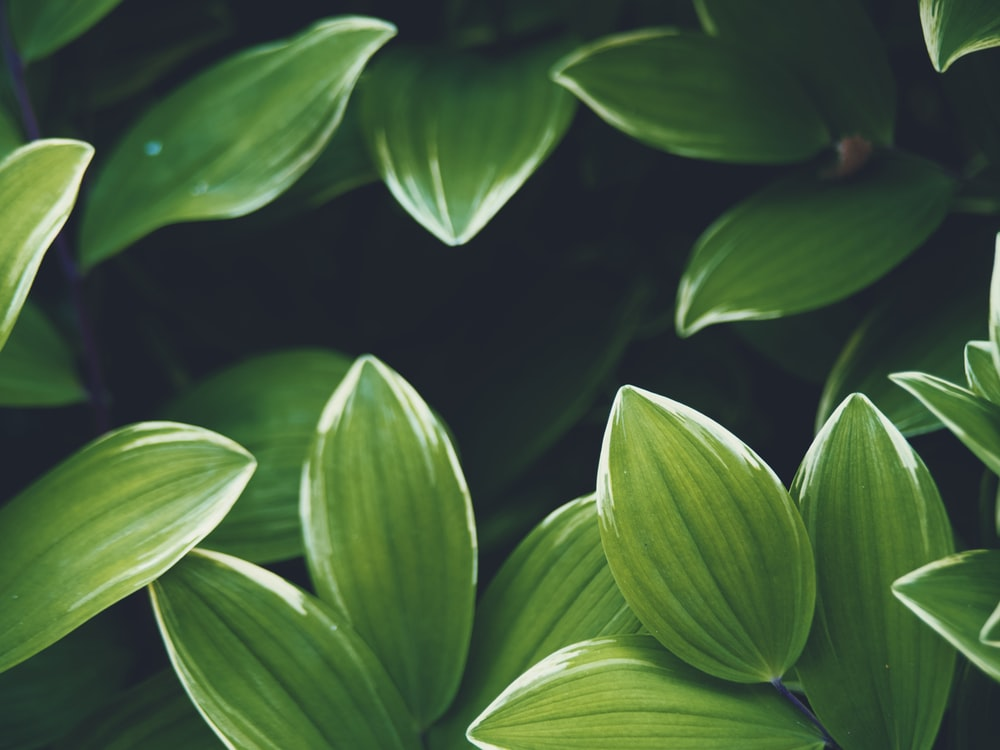
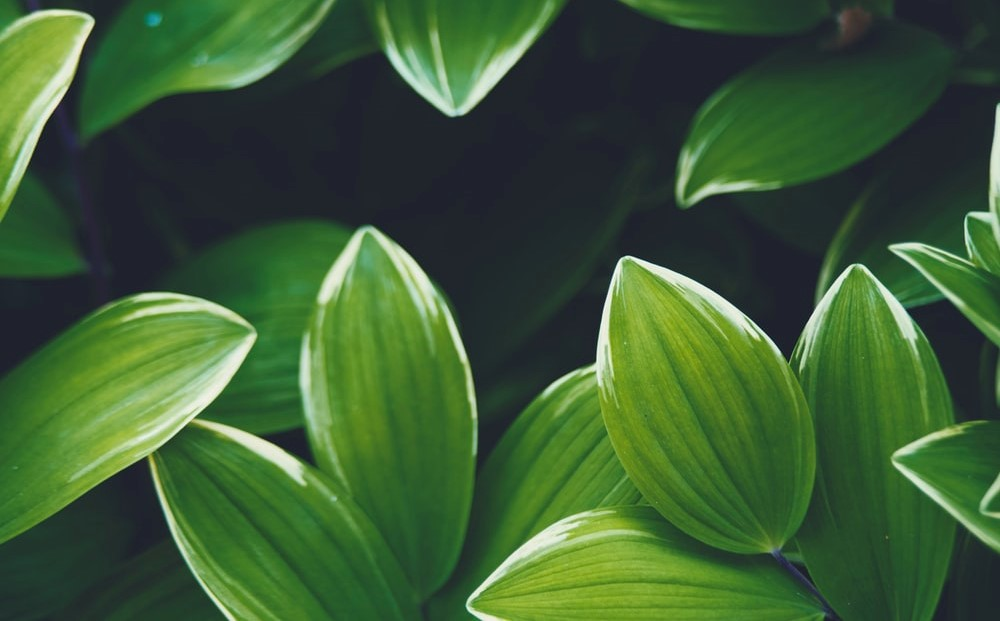
Anomate gallery with modal

diff --git a/dist/main.css b/dist/main.css
@@ -1,2 +1,2 @@
-*{box-sizing:border-box;padding:0;margin:0;font-family:'Quicksand', sans-serif}.container{max-width:1170px;margin:auto}a{text-decoration:none}h1{text-align:center;font-family:'Redressed', cursive;font-size:100px;color:#004d22;text-shadow:0 0 5px #fcd7d7,10px 10px 10px #414141}nav{background-color:#004d22;padding:5px;z-index:1;position:fixed;top:0;bottom:0;left:0;height:100%;width:50px;transition:width 200ms ease-out;box-shadow:1px 0 18px 6px #1a3d20a8}nav #logo{display:block;margin:20px auto;transition:margin 300ms ease-out;text-align:center}nav #logo .fa-pagelines{font-size:50px}nav #logo #logo_span{display:none;font-family:'Redressed', cursive}nav a{color:#fcd7d7}nav #burger_ul{display:none;margin-top:70px}nav #burger_ul li{text-align:center;text-transform:uppercase;padding:10px;font-weight:300}.burger{cursor:pointer}.burger span{width:30px;height:4px;background-color:#fcd7d7;border-radius:5px;display:block;margin:5px auto;transition:all 500ms ease-out}.active_burger{width:200px}.active_burger #logo{font-size:35px;margin-top:60px}.active_burger .burger span:nth-child(1){transform:translateY(9px) rotate(-45deg)}.active_burger .burger span:nth-child(2){transform:rotate(45deg)}.active_burger .burger span:nth-child(3){opacity:0}header{display:flex;color:#fcd7d7;width:100%;overflow:hidden;padding-left:50px;background-position:50% 50%;background-repeat:no-repeat;background-size:cover;background-image:url(../src/img/bg3.jpg)}header .acc_section{flex:1;height:300px;transform:skewX(-30deg);position:relative;padding:5px;background-position:50% 50%;background-repeat:no-repeat;background-size:cover}header .acc_section:not(.acc_active){cursor:pointer}header .acc_section:nth-child(1){background-image:url(../src/img/bg6.jpg)}header .acc_section:nth-child(2){background-image:url(../src/img/bg.jpg)}header .acc_section:nth-child(3){background-image:url(../src/img/bg4.jpg)}header .acc_section:nth-child(4){background-image:url(../src/img/bg2.jpg)}header .acc_section:nth-child(5){background-image:url(../src/img/bg5.jpg)}header .acc_section h2{text-align:left;text-transform:uppercase;transform:rotate(-90deg);position:absolute;bottom:100px}header .acc_section .acc_displ{display:none}header .acc_active{flex:2}header .acc_active h2{display:none}header .acc_active .acc_displ{color:#004d22;display:block;position:absolute;top:0;left:0;margin:auto;width:100%;height:100%;background-color:#ffffff93;padding:18%}header .acc_active .acc_displ p{padding-top:10px;font-size:13px;font-weight:700;text-align:justify;transform:skewX(30deg)}header .acc_active .acc_displ h3{text-align:center;position:relative;padding-bottom:10px;padding-right:20%;text-transform:uppercase;transform:skewX(30deg)}header .acc_active .acc_displ h3:after{content:'';position:absolute;right:50%;bottom:0;width:50px;height:2px;background-color:#004d22}@media (max-width: 1000px){header .acc_section,header .acc_active .acc_displ p,header .acc_active .acc_displ h3{transform:none}header .acc_active .acc_displ h3{padding-right:0;text-align:left}header .acc_active .acc_displ h3:after{left:0}}@media (max-width: 750px){h1{font-size:70px}header{height:250px}header .acc_active .acc_displ{padding:10%}header .acc_active .acc_displ p{font-size:12px}header .acc_section h2{font-size:15px;position:absolute;bottom:150px}}@media (max-width: 550px){h1{font-size:50px}header{height:250px}header .acc_active .acc_displ{padding:12%}header .acc_active .acc_displ p{font-size:9px}header .acc_section h2{font-size:12px;position:absolute;bottom:150px}}
+*{box-sizing:border-box;padding:0;margin:0;font-family:'Quicksand', sans-serif}.container{max-width:1170px;margin:auto;padding:10px 10px 10px 60px}a{text-decoration:none}h1{text-align:center;font-family:'Redressed', cursive;font-size:100px;color:#004d22;text-shadow:0 0 5px #fcd7d7,10px 10px 10px #414141}main{position:relative}main button{position:absolute;top:-85px;left:43%;width:200px;height:50px;border-radius:30px;background-color:#004d22;font-weight:700;color:#fcd7d7;text-transform:uppercase;border:10px solid #fcd7d78e;cursor:pointer}nav{background-color:#004d22;padding:5px;z-index:1;position:fixed;top:0;bottom:0;left:0;height:100%;width:50px;transition:width 200ms ease-out;box-shadow:1px 0 18px 6px #1a3d20a8}nav #logo{display:block;margin:20px auto;transition:margin 300ms ease-out;text-align:center}nav #logo .fa-pagelines{font-size:50px}nav #logo #logo_span{display:none;font-family:'Redressed', cursive}nav a{color:#fcd7d7}nav #burger_ul{display:none;margin-top:70px}nav #burger_ul li{text-align:center;text-transform:uppercase;padding:10px;font-weight:300}.burger{cursor:pointer}.burger span{width:30px;height:4px;background-color:#fcd7d7;border-radius:5px;display:block;margin:5px auto;transition:all 500ms ease-out}.active_burger{width:200px}.active_burger #logo{font-size:35px;margin-top:60px}.active_burger .burger span:nth-child(1){transform:translateY(9px) rotate(-45deg)}.active_burger .burger span:nth-child(2){transform:rotate(45deg)}.active_burger .burger span:nth-child(3){opacity:0}header{display:flex;color:#fcd7d7;width:100%;overflow:hidden;padding-left:50px;background-image:url(../src/img/bg6.jpg)}header .acc_section{flex:1;height:300px;transform:skewX(-30deg);position:relative;padding:5px;overflow:hidden}header .acc_section img{position:absolute;height:150%;top:0;bottom:0;left:-25%;right:-25%;object-fit:cover;transform:skewX(30deg)}header .acc_section:not(.acc_active){cursor:pointer}header .acc_section h2{text-align:left;text-transform:uppercase;transform:rotate(-90deg);position:absolute;bottom:100px}header .acc_section .acc_displ{display:none}header .acc_active{flex:2}header .acc_active h2{display:none}header .acc_active .acc_displ{color:#004d22;display:block;position:absolute;top:0;left:0;margin:auto;width:100%;height:100%;background-color:#ffffff93;padding:18%}header .acc_active .acc_displ p{padding-top:10px;font-size:13px;font-weight:700;text-align:justify;transform:skewX(30deg)}header .acc_active .acc_displ h3{text-align:center;position:relative;padding-bottom:10px;padding-right:20%;text-transform:uppercase;transform:skewX(30deg)}header .acc_active .acc_displ h3:after{content:'';position:absolute;right:50%;bottom:0;width:50px;height:2px;background-color:#004d22}@media (max-width: 1000px){header .acc_section,header .acc_active .acc_displ p,header .acc_active .acc_displ h3,header .acc_section img{transform:none}header .acc_section img{height:100%}header .acc_active .acc_displ h3{padding-right:0;text-align:left}header .acc_active .acc_displ h3:after{left:0}}@media (max-width: 750px){h1{font-size:70px}main button{width:150px;height:35px;top:-40px;left:40%;border-width:5px}header{height:250px}header .acc_active .acc_displ{padding:10%}header .acc_active .acc_displ p{font-size:12px}header .acc_section h2{font-size:15px;position:absolute;bottom:150px}}@media (max-width: 550px){h1{font-size:50px}header{height:250px}header .acc_active .acc_displ{padding:12%}header .acc_active .acc_displ p{font-size:9px}header .acc_section h2{font-size:12px;position:absolute;bottom:150px}}#animate_gallery{display:flex;flex-direction:column;overflow:hidden}.img_container{max-width:750px;height:300px;border:5px solid #004d22;margin-bottom:30px;cursor:zoom-in}.img_container:nth-child(odd){position:relative;left:-40px;top:-20px;opacity:0}.img_container:nth-child(3){top:20px}.img_container:nth-child(even){position:relative;right:-40px;top:-20px;margin-left:auto;opacity:0}.img_container:nth-child(4){top:20px}.img_container img{height:100%;width:100%;border:5px solid #fcd7d7;object-fit:cover}.img_visible:nth-child(odd){left:20px;top:0;opacity:1;transition:all 1s cubic-bezier(0.5, -4, 0.5, 5)}.img_visible:nth-child(even){right:20px;top:0;opacity:1;transition:all 1s cubic-bezier(0.5, -4, 0.5, 5)}.hidden_modal{display:none}.hidden_modal img{display:none}.visible_modal{display:block;position:fixed;cursor:zoom-out;z-index:2;background-color:#00000083;top:0;bottom:0;right:0;left:0}.visible_modal img{display:block;margin:auto;object-fit:cover;width:80%;height:80vh;margin-top:10vh}@media (max-width: 850px){.img_container{width:450px}}@media (max-width: 550px){.img_container{width:300px;height:150px}}
 

diff --git a/src/scss/base.scss b/src/scss/base.scss
@@ -2,9 +2,14 @@ $gr: #004d22;
 $pk: #fcd7d7;
 
 @mixin bg {
-    background-position: 50% 50%;
+    background-position: 30% 30%;
     background-repeat: no-repeat;
     background-size: cover;
+}
+@mixin animate {
+    top: 0;
+    opacity: 1;
+    transition: all 1s cubic-bezier(0.5, -4, 0.5, 5);
 }
 
 *{
@@ -16,6 +21,7 @@ $pk: #fcd7d7;
 .container{
     max-width: 1170px;
     margin: auto;
+    padding: 10px 10px 10px 60px;
 }
 a{
     text-decoration: none;
@@ -26,6 +32,23 @@ h1{
     font-size: 100px;
     color: $gr;
     text-shadow:  0 0 5px $pk, 10px 10px 10px #414141;
+}
+main{
+    position: relative;
+    button{
+        position: absolute;
+        top: -85px;
+        left: 43%;
+        width: 200px;
+        height: 50px;
+        border-radius: 30px;
+        background-color: $gr;
+        font-weight: 700;
+        color: $pk;
+        text-transform: uppercase;
+        border: 10px solid #fcd7d78e;
+        cursor: pointer;
+    }
 }
 
 //burger menu ↓
@@ -108,32 +131,27 @@ header{
     width: 100%;
     overflow: hidden;
     padding-left: 50px;
-    @include bg;
-    background-image: url(../src/img/bg3.jpg);
+    // @include bg;
+    background-image: url(../src/img/bg6.jpg);
     .acc_section{
         flex: 1;
         height: 300px;
         transform: skewX(-30deg);
         position: relative;
         padding: 5px;
-        @include bg;
+        overflow: hidden;
+        img{
+            position: absolute;
+            height: 150%;
+            top: 0;
+            bottom: 0;
+            left: -25%;
+            right: -25%;
+            object-fit: cover;    
+            transform: skewX(30deg);              
+        }
         &:not(.acc_active){
             cursor: pointer;
-        }
-        &:nth-child(1){
-            background-image: url(../src/img/bg6.jpg);
-        }
-        &:nth-child(2){
-            background-image: url(../src/img/bg.jpg);
-        }
-        &:nth-child(3){
-            background-image: url(../src/img/bg4.jpg);
-        }
-        &:nth-child(4){
-            background-image: url(../src/img/bg2.jpg);
-        }
-        &:nth-child(5){
-            background-image: url(../src/img/bg5.jpg);
         }
         h2{
             text-align: left;
@@ -191,8 +209,11 @@ header{
     }
 }
 @media(max-width: 1000px){
-    header .acc_section, header .acc_active .acc_displ p, header .acc_active .acc_displ h3{
+    header .acc_section, header .acc_active .acc_displ p, header .acc_active .acc_displ h3, header .acc_section img{
         transform: none;
+    }
+    header .acc_section img{
+        height: 100%;
     }
     header .acc_active .acc_displ h3{
         padding-right: 0;
@@ -205,6 +226,13 @@ header{
 @media(max-width: 750px){
     h1{
         font-size: 70px;
+    }
+    main button{
+        width: 150px;
+        height: 35px;
+        top: -40px;
+        left: 40%;
+        border-width: 5px;
     }
     header{
         height: 250px;
@@ -238,5 +266,90 @@ header{
             position: absolute;
             bottom: 150px;
         }
+    }
+}
+
+//Animate gallery ↓
+#animate_gallery{
+    display: flex;
+    flex-direction: column;
+    overflow: hidden;
+}
+.img_container{
+    max-width: 750px;
+    height: 300px;
+    border: 5px solid $gr;
+    margin-bottom: 30px;
+    cursor: zoom-in;
+    &:nth-child(odd){
+        position: relative;
+        left: -40px;
+        top: -20px;
+        opacity: 0;
+    }
+    &:nth-child(3){
+        top: 20px;
+    }
+    &:nth-child(even){
+        position: relative;
+        right: -40px;
+        top: -20px;
+        margin-left: auto;
+        opacity: 0;
+    }
+    &:nth-child(4){
+        top: 20px;
+    }
+    img{
+        height: 100%;
+        width: 100%;
+        border: 5px solid $pk;
+        object-fit: cover;
+    }
+}
+.img_visible{
+    &:nth-child(odd){
+        left: 20px;
+        @include animate;
+    }
+    &:nth-child(even){
+        right: 20px;
+        @include animate;
+    }
+}
+.hidden_modal{
+    display: none;
+    img{
+        display: none;
+    }
+}
+.visible_modal{
+    display: block;
+    position: fixed;
+    cursor: zoom-out;
+    z-index: 2;
+    background-color: #00000083;
+    top: 0;
+    bottom: 0;
+    right: 0;
+    left: 0;
+    img{
+        display: block;
+        margin: auto;
+        object-fit: cover;
+        width: 80%;
+        height: 80vh;
+        margin-top: 10vh;
+    }
+}
+@media(max-width:850px){
+    .img_container{
+        width: 450px;
+    }
+}
+@media(max-width:550px){
+    .img_container{
+        width: 300px;
+        height: 150px;
     }
 }

diff --git a/index.html b/index.html
@@ -9,7 +9,6 @@
     <link rel="preconnect" href="https://fonts.gstatic.com">
     <link href="https://fonts.googleapis.com/css2?family=Quicksand:wght@300;500;700&family=Redressed&display=swap" rel="stylesheet">
     <link rel="stylesheet" href="node_modules/normalize.css/normalize.css">
-    <!-- <link rel="stylesheet" href="https://unpkg.com/aos@next/dist/aos.css" /> -->
     <link rel="stylesheet" href="dist/main.css">
 </head>
 <body>
@@ -23,13 +22,14 @@
         <ul id="burger_ul">
             <li><a href="#accordion">Accordion</a></li>
             <li><a href="">Slider</a></li>
-            <li><a href="">Animate gallery</a></li>
+            <li><a href="#animate_gallery">Animate gallery</a></li>
             <li><a href="">Grid</a></li>
             <li><a href="">Form</a></li>
         </ul>
     </nav>
     <header id="accordion">
         <div class="acc_section">
+            <img src="src/img/bg6.jpg" alt="">
             <h2>Monsterra</h2>
             <div class="acc_displ">
                 <h3>Monstera</h3>
@@ -37,6 +37,7 @@
             </div>
         </div>
         <div class="acc_section">
+            <img src="src/img/bg.jpg" alt="">
             <h2>Yucca leaf</h2>
             <div class="acc_displ">
                 <h3>Yucca</h3>
@@ -44,6 +45,7 @@
             </div>
         </div>
         <div class="acc_section acc_active">
+            <img src="src/img/bg4.jpg" alt="">
             <h2>Ficus palm</h2>
             <div class="acc_displ">
                 <h3>Ficus</h3>
@@ -51,6 +53,7 @@
             </div>
         </div>
         <div class="acc_section">
+            <img src="src/img/bg2.jpg" alt="">
             <h2>Parlor palm</h2>
             <div class="acc_displ">
                 <h3>Palm</h3>
@@ -58,6 +61,7 @@
             </div>
         </div>
         <div class="acc_section">
+            <img src="src/img/bg5.jpg" alt="">
             <h2>Anthuriuum</h2>
             <div class="acc_displ">
                 <h3>Anthurium</h3>
@@ -65,12 +69,21 @@
             </div>
         </div>
     </header>
+    <div class="hidden_modal">
+        <img id="modal_img" src="" alt="">
+    </div>
     <main>
+        <button>Write to us</button>
         <h1>Gallery</h1>
+        <section class="container" id="animate_gallery">
+            <div class="img_container"><img title="Click me" src="src/img/photo10.jpg" alt=""></div>
+            <div class="img_container"><img title="Click me" src="src/img/photo11.jpg" alt=""></div>
+            <div class="img_container"><img title="Click me" src="src/img/photo12.jpg" alt=""></div>
+            <div class="img_container"><img title="Click me" src="src/img/photo13.jpg" alt=""></div>
+        </section>
     </main>
 
     <script src="https://use.fontawesome.com/releases/v5.14.0/js/all.js" data-auto-replace-svg="nest"></script>
-    <!-- <script src="https://unpkg.com/aos@next/dist/aos.js"></script> -->
     <script type="text/javascript" src="dist/bundle.js"></script>
 </body>
 </html>

diff --git a/dist/bundle.js b/dist/bundle.js
@@ -1,1 +1,1 @@
-(()=>{"use strict";const e=document.querySelector("nav"),c=document.querySelector("#logo_span"),t=document.querySelector("#burger_ul"),s=()=>{e.classList.toggle("active_burger"),e.classList.contains("active_burger")?setTimeout((()=>{c.style.display="inline",t.style.display="block"}),150):(c.style.display="none",t.style.display="none")};window.addEventListener("load",(()=>{document.querySelector(".burger").addEventListener("click",s),document.querySelectorAll(".acc_section").forEach((e=>{e.addEventListener("click",(()=>{document.querySelector(".acc_active").classList.remove("acc_active"),e.classList.add("acc_active")}))}))}))})();
+(()=>{"use strict";const e=document.querySelector("nav"),t=document.querySelector("#logo_span"),c=document.querySelector("#burger_ul"),i=()=>{e.classList.toggle("active_burger"),e.classList.contains("active_burger")?setTimeout((()=>{t.style.display="inline",c.style.display="block"}),150):(t.style.display="none",c.style.display="none")};window.addEventListener("load",(()=>{document.querySelector(".burger").addEventListener("click",i),document.querySelectorAll(".acc_section").forEach((e=>{e.addEventListener("click",(()=>{document.querySelector(".acc_active").classList.remove("acc_active"),e.classList.add("acc_active")}))})),function(){const e=document.querySelectorAll(".img_container");window.addEventListener("scroll",(()=>{e.forEach((e=>{e.getBoundingClientRect().top-window.innerHeight<=0&&e.classList.add("img_visible")}))}));const t=document.querySelector(".hidden_modal"),c=document.getElementById("modal_img");e.forEach(((e,i)=>{e.addEventListener("click",(()=>{t.classList.add("visible_modal"),c.src=`src/img/photo1${i}.jpg`}))})),t.addEventListener("click",(()=>{t.classList.remove("visible_modal")}))}()}))})();

diff --git a/src/js/animgallery.js b/src/js/animgallery.js
@@ -1,0 +1,22 @@
+export default function (){
+    const imgCont = document.querySelectorAll(".img_container");
+    window.addEventListener('scroll', ()=>{
+        imgCont.forEach(item =>{
+            if(item.getBoundingClientRect().top - window.innerHeight <= 0){
+                item.classList.add("img_visible");
+            }
+        });
+    });
+
+    const modal = document.querySelector(".hidden_modal");
+    const modalImg = document.getElementById("modal_img");
+    imgCont.forEach((item, key) =>{
+        item.addEventListener('click', ()=>{
+            modal.classList.add("visible_modal");
+            modalImg.src =`src/img/photo1${key}.jpg`;
+        });
+    });
+    modal.addEventListener('click', ()=>{
+        modal.classList.remove("visible_modal");
+    });
+}

diff --git a/src/js/script.js b/src/js/script.js
@@ -3,8 +3,10 @@
 
 import burger from './burger.js';
 import accordion from './accordion.js';
+import animgallery from './animgallery.js';
 
 window.addEventListener('load', ()=>{
     burger();
     accordion();
+    animgallery();
 });
